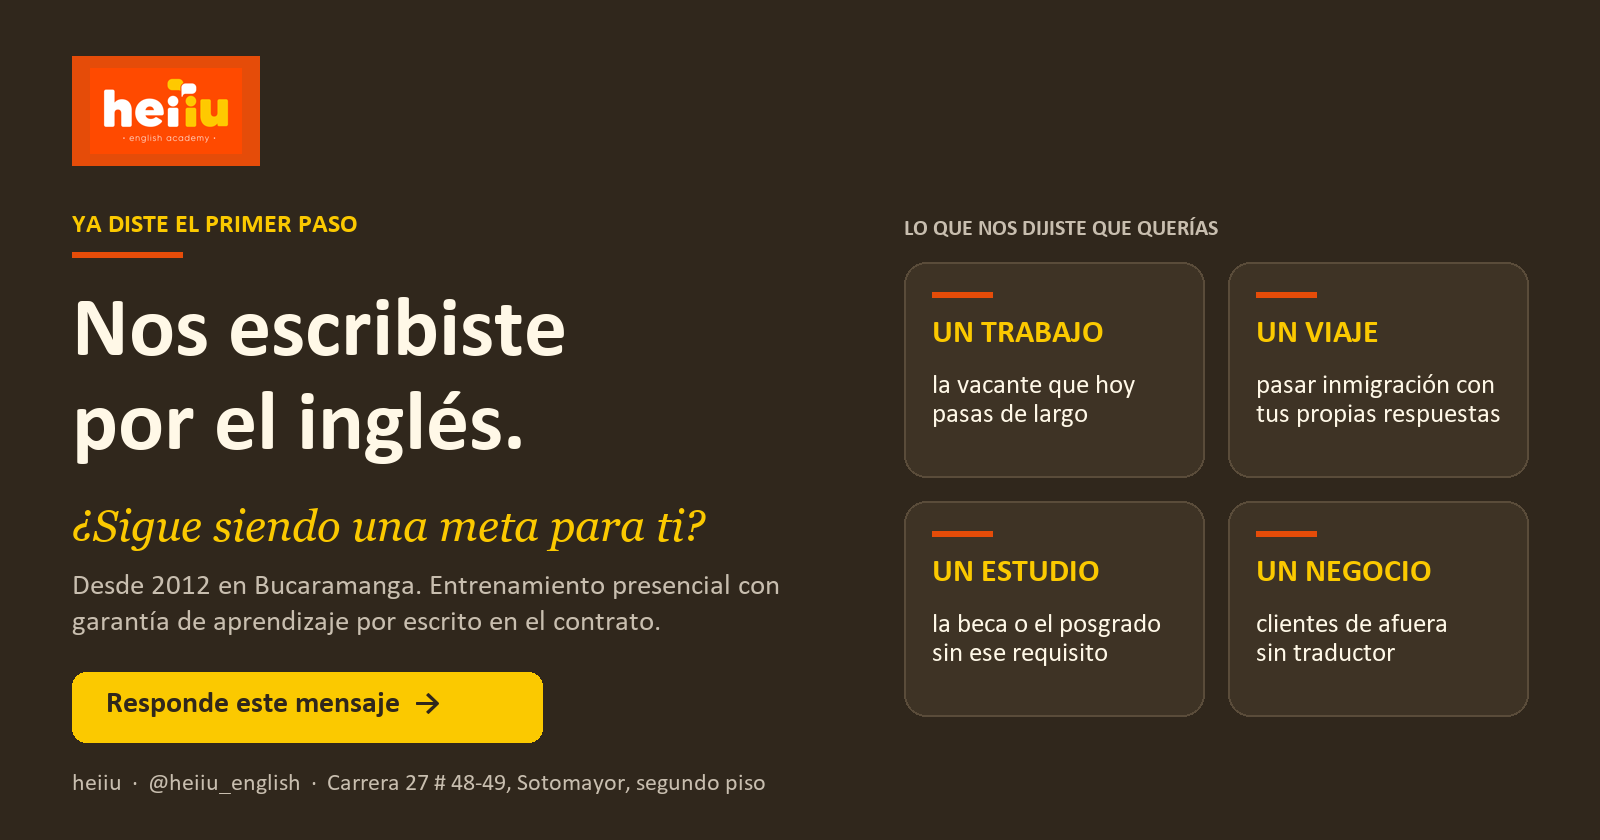
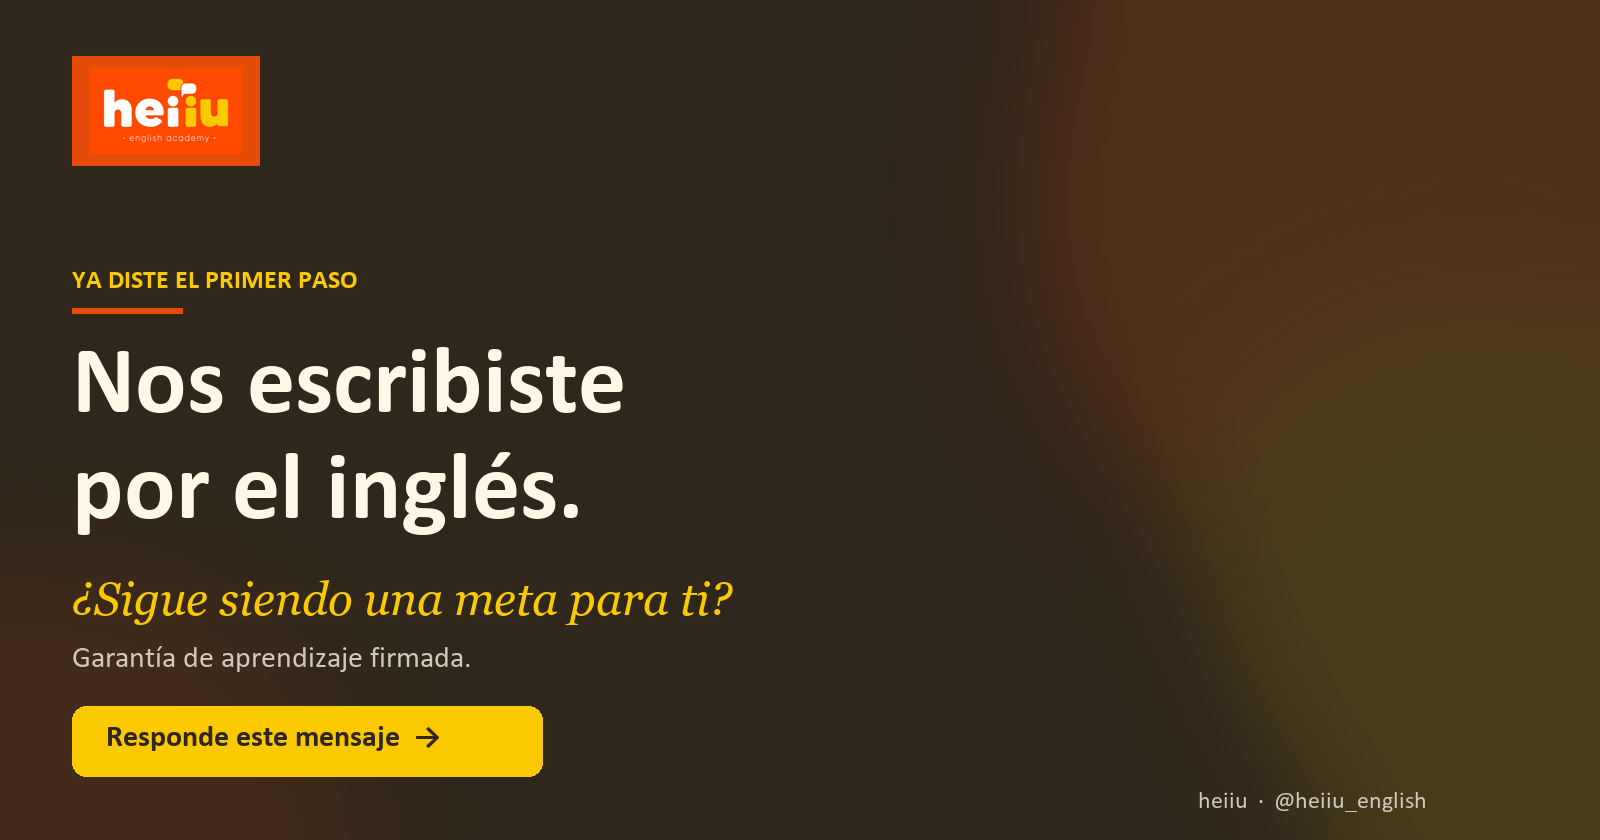
Pieza de reactivacion: version corta (sin 2012, solo garantia firmada), fondo de marca; soporta foto real como fondo si existe fondo_reactivacion.jpg

diff --git a/generadores/comercial/gen_pieza_reactivacion.py b/generadores/comercial/gen_pieza_reactivacion.py
@@ -1,14 +1,39 @@
 # -*- coding: utf-8 -*-
-"""Pieza de reactivacion de leads para LaHaus (imagen horizontal que acompana el mensaje de WhatsApp). Estilo de los carruseles IG Heiiu.
+"""Pieza de reactivacion de leads para LaHaus (horizontal). Version corta: titular + pregunta + garantia + boton.
+Fondo: foto real si existe `recursos/comercial/plataforma LaHaus/fondo_reactivacion.jpg` (con capa oscura); si no, fondo de marca.
 Salida: recursos/comercial/plataforma LaHaus/PIEZA_REACTIVACION_HEIIU.png"""
-from PIL import Image, ImageDraw, ImageFont
+import os
+from PIL import Image, ImageDraw, ImageFont, ImageFilter
 
 W, H = 1600, 840
-BG = (48, 39, 28); CREMA = (255, 248, 231); AMAR = (251, 201, 0); NAR = (229, 76, 9); GRIS = (200, 190, 175); CARD = (62, 51, 37)
+BG = (48, 39, 28); CREMA = (255, 248, 231); AMAR = (251, 201, 0); NAR = (229, 76, 9); GRIS = (210, 200, 185)
 F = 'C:/Windows/Fonts/'
+BASE = r'C:\Users\pedro\Downloads\diana gt\heiiu\estrategia global Heiiu\recursos\comercial\plataforma LaHaus'
 def font(name, size): return ImageFont.truetype(F + name, size)
 
-img = Image.new('RGB', (W, H), BG); d = ImageDraw.Draw(img)
+foto = os.path.join(BASE, 'fondo_reactivacion.jpg')
+if os.path.exists(foto):
+    img = Image.open(foto).convert('RGB')
+    # recorte a 1600x840 cubriendo
+    r = max(W / img.width, H / img.height); img = img.resize((int(img.width * r) + 1, int(img.height * r) + 1))
+    x = (img.width - W) // 2; y = (img.height - H) // 2; img = img.crop((x, y, x + W, y + H))
+    # capa oscura con degradado: mas oscura a la izquierda (texto), mas foto a la derecha
+    overlay = Image.new('RGBA', (W, H), (0, 0, 0, 0)); od = ImageDraw.Draw(overlay)
+    for i in range(W):
+        a = int(235 - 110 * (i / W))  # 235 -> 125
+        od.line([(i, 0), (i, H)], fill=(48, 39, 28, a))
+    img = Image.alpha_composite(img.convert('RGBA'), overlay).convert('RGB')
+else:
+    img = Image.new('RGB', (W, H), BG)
+    # fondo de marca: circulos suaves en naranja y amarillo, muy tenues
+    layer = Image.new('RGBA', (W, H), (0, 0, 0, 0)); ld = ImageDraw.Draw(layer)
+    ld.ellipse([980, -260, 1900, 660], fill=(229, 76, 9, 46))
+    ld.ellipse([1180, 300, 1760, 880], fill=(251, 201, 0, 34))
+    ld.ellipse([-320, 520, 420, 1260], fill=(229, 76, 9, 26))
+    layer = layer.filter(ImageFilter.GaussianBlur(70))
+    img = Image.alpha_composite(img.convert('RGBA'), layer).convert('RGB')
+
+d = ImageDraw.Draw(img)
 
 # logo
 try:
@@ -16,39 +41,28 @@ try:
     lh = 86; lw = int(logo.width * lh / logo.height); logo = logo.resize((lw, lh))
     pad = Image.new('RGBA', (lw + 36, lh + 24), NAR + (255,)); pad.paste(logo, (18, 12), logo)
     img.paste(pad, (72, 56), pad)
-except Exception as e:
+except Exception:
     d.text((72, 60), 'heiiu', font=font('calibrib.ttf', 54), fill=AMAR)
 
-# eyebrow + linea
-d.text((72, 212), 'YA DISTE EL PRIMER PASO', font=font('calibrib.ttf', 26), fill=AMAR, spacing=4)
-d.rectangle([72, 252, 182, 257], fill=NAR)
-
+# etiqueta
+d.text((72, 268), 'YA DISTE EL PRIMER PASO', font=font('calibrib.ttf', 26), fill=AMAR)
+d.rectangle([72, 308, 182, 313], fill=NAR)
 # titular
-d.text((72, 290), 'Nos escribiste', font=font('calibrib.ttf', 86), fill=CREMA)
-d.text((72, 384), 'por el inglés.', font=font('calibrib.ttf', 86), fill=CREMA)
-# subtitulo
-d.text((72, 500), '¿Sigue siendo una meta para ti?', font=font('georgiai.ttf', 44), fill=AMAR)
-# prueba
-d.text((72, 572), 'Desde 2012 en Bucaramanga. Entrenamiento presencial con', font=font('calibri.ttf', 29), fill=GRIS)
-d.text((72, 608), 'garantía de aprendizaje por escrito en el contrato.', font=font('calibri.ttf', 29), fill=GRIS)
+d.text((72, 340), 'Nos escribiste', font=font('calibrib.ttf', 96), fill=CREMA)
+d.text((72, 446), 'por el inglés.', font=font('calibrib.ttf', 96), fill=CREMA)
+# pregunta
+d.text((72, 572), '¿Sigue siendo una meta para ti?', font=font('georgiai.ttf', 46), fill=AMAR)
+# garantia
+d.text((72, 644), 'Garantía de aprendizaje firmada.', font=font('calibri.ttf', 30), fill=GRIS)
 # boton
-bx, by, bw, bh = 72, 672, 470, 70
+bx, by, bw, bh = 72, 706, 470, 70
 d.rounded_rectangle([bx, by, bx + bw, by + bh], radius=14, fill=AMAR)
-d.text((bx + 34, by + 17), 'Responde este mensaje  →', font=font('calibrib.ttf', 30), fill=(48, 39, 28))
+d.text((bx + 34, by + 17), 'Responde este mensaje  →', font=font('calibrib.ttf', 30), fill=BG)
 # pie
-d.text((72, 772), 'heiiu  ·  @heiiu_english  ·  Carrera 27 # 48-49, Sotomayor, segundo piso', font=font('calibri.ttf', 24), fill=GRIS)
+d.text((W - 72 - 330, 790), 'heiiu  ·  @heiiu_english', font=font('calibri.ttf', 24), fill=GRIS)
 
-# tarjetas de motivo (lado derecho)
-cards = [('UN TRABAJO', 'la vacante que hoy\npasas de largo'), ('UN VIAJE', 'pasar inmigración con\ntus propias respuestas'), ('UN ESTUDIO', 'la beca o el posgrado\nsin ese requisito'), ('UN NEGOCIO', 'clientes de afuera\nsin traductor')]
-cw, ch, gap = 300, 215, 24
-x0 = W - 72 - (2 * cw + gap); y0 = 262
-for i, (tit, sub) in enumerate(cards):
-    cx = x0 + (i % 2) * (cw + gap); cy = y0 + (i // 2) * (ch + gap)
-    d.rounded_rectangle([cx, cy, cx + cw, cy + ch], radius=22, fill=CARD, outline=(90, 76, 58), width=2)
-    d.rectangle([cx + 28, cy + 30, cx + 88, cy + 35], fill=NAR)
-    d.text((cx + 28, cy + 56), tit, font=font('calibrib.ttf', 32), fill=AMAR)
-    d.multiline_text((cx + 28, cy + 110), sub, font=font('calibri.ttf', 27), fill=CREMA, spacing=8)
-d.text((x0, y0 - 44), 'LO QUE NOS DIJISTE QUE QUERÍAS', font=font('calibrib.ttf', 22), fill=GRIS)
-
-out = r'C:\Users\pedro\Downloads\diana gt\heiiu\estrategia global Heiiu\recursos\comercial\plataforma LaHaus\PIEZA_REACTIVACION_HEIIU.png'
-img.save(out, optimize=True); print('OK', out)
+out = os.path.join(BASE, 'PIEZA_REACTIVACION_HEIIU.png')
+try:
+    img.save(out, optimize=True); print('OK', out)
+except OSError:
+    out2 = os.path.join(BASE, 'PIEZA_REACTIVACION_HEIIU_v2.png'); img.save(out2, optimize=True); print('ABIERTA -> guardada como', out2)
